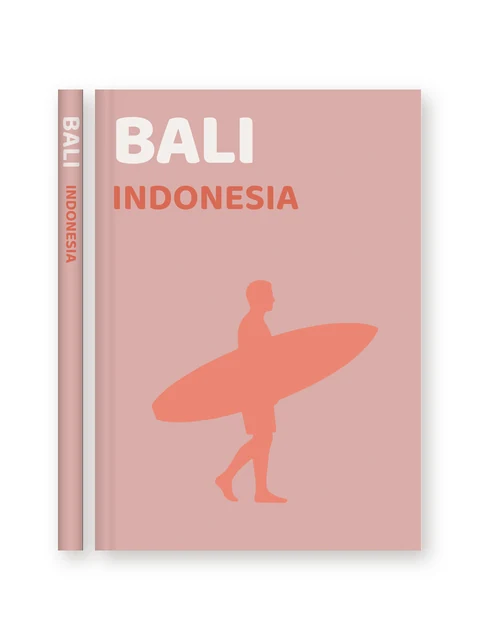
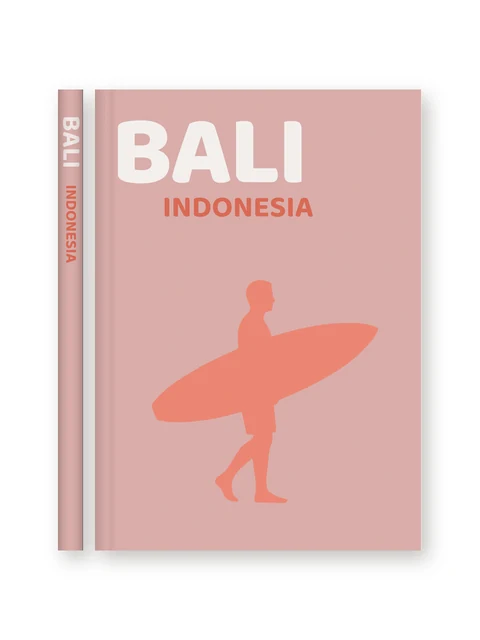
Bali template laid out like the other travel covers
Title on the left at the same size as Sicily or Paros, Indonesia under it,
right-aligned to where the title ends. Preview and sharing pictures made
again (og-image ?v=5).

Claude-Session: https://claude.ai/code/session_019iW3qNmH4N4x87DfLWtU9k

Changed region(s): [[0.2188, 0.1562, 0.6562, 0.3438]]

diff --git a/frontend/src/lib/coverThemes.js b/frontend/src/lib/coverThemes.js
@@ -129,10 +129,10 @@ export const COVER_THEMES = [
           title_font: BALOO,
           title_font_weight: "800",
           title_font_size: 66,
-          // Bali is a short word: a narrower box keeps it the size Honolulu was
-          // (the title fills its box's width), on the left like the others,
-          // with the subtitle right under it.
-          title_x: 0.05, title_y: 0.04, title_w: 0.46, title_h: 0.18,
+          // Laid out like the other travel covers: the title on the left (a
+          // narrower box for the short word Bali: the title fills its box's
+          // width), the subtitle under it, ending where the title ends.
+          title_x: 0.05, title_y: 0.04, title_w: 0.62, title_h: 0.18,
           spine_subtitle: "Indonesia",
           spine_subtitle_color: "#D96A54",
           spine_subtitle_font: BALOO,
@@ -141,7 +141,7 @@ export const COVER_THEMES = [
           spine_title_font: BALOO,
           extra_items: [
             iconItem(TRAVEL_HAWAII_ICON, "travel_hawaii", { x: 0.16, y: 0.405, w: 0.72, h: 0.5 }),
-            textItem("subtitle", "Indonesia", { role: "subtitle", x: 0.05, y: 0.21, w: 0.7, h: 0.1, font: BALOO, font_weight: "700", font_size: 48, color: "#D96A54", text_align: "left" }),
+            textItem("subtitle", "Indonesia", { role: "subtitle", x: 0.12, y: 0.22, w: 0.55, h: 0.09, font: BALOO, font_weight: "700", font_size: 40, color: "#D96A54", text_align: "right" }),
           ],
         },
       },

diff --git a/frontend/index.html b/frontend/index.html
@@ -18,7 +18,7 @@
         <meta property="og:description" content="Turn your photos into a beautifully designed printed photo book, laid out for you in minutes." />
         <meta property="og:type" content="website" />
         <meta property="og:url" content="%SITE_URL%/" />
-        <meta property="og:image" content="%SITE_URL%/og-image.jpg?v=4" />
+        <meta property="og:image" content="%SITE_URL%/og-image.jpg?v=5" />
         <meta property="og:image:width" content="1200" />
         <meta property="og:image:height" content="630" />
         <meta name="twitter:card" content="summary_large_image" />
